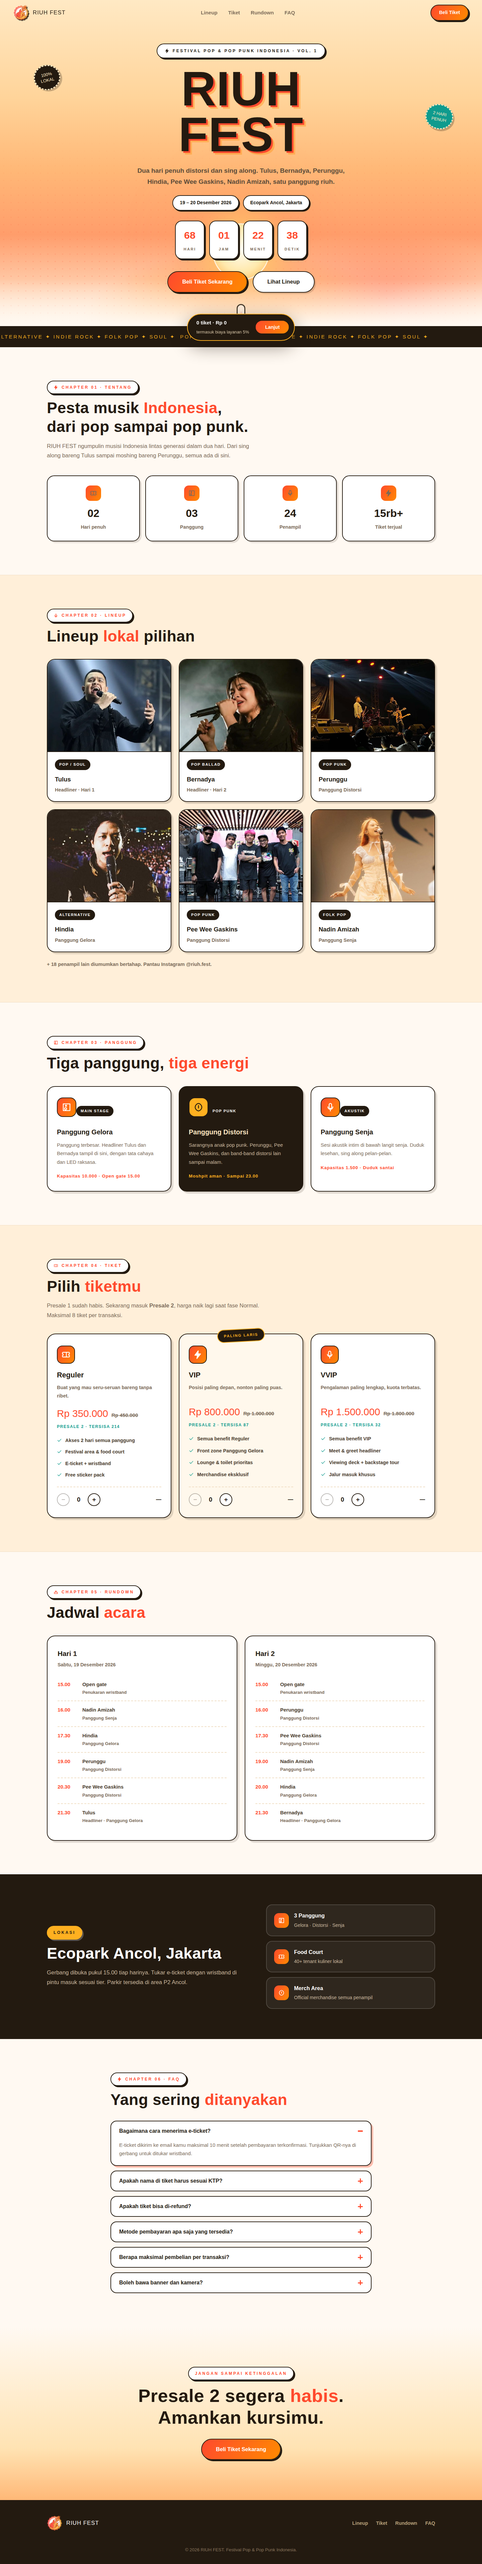
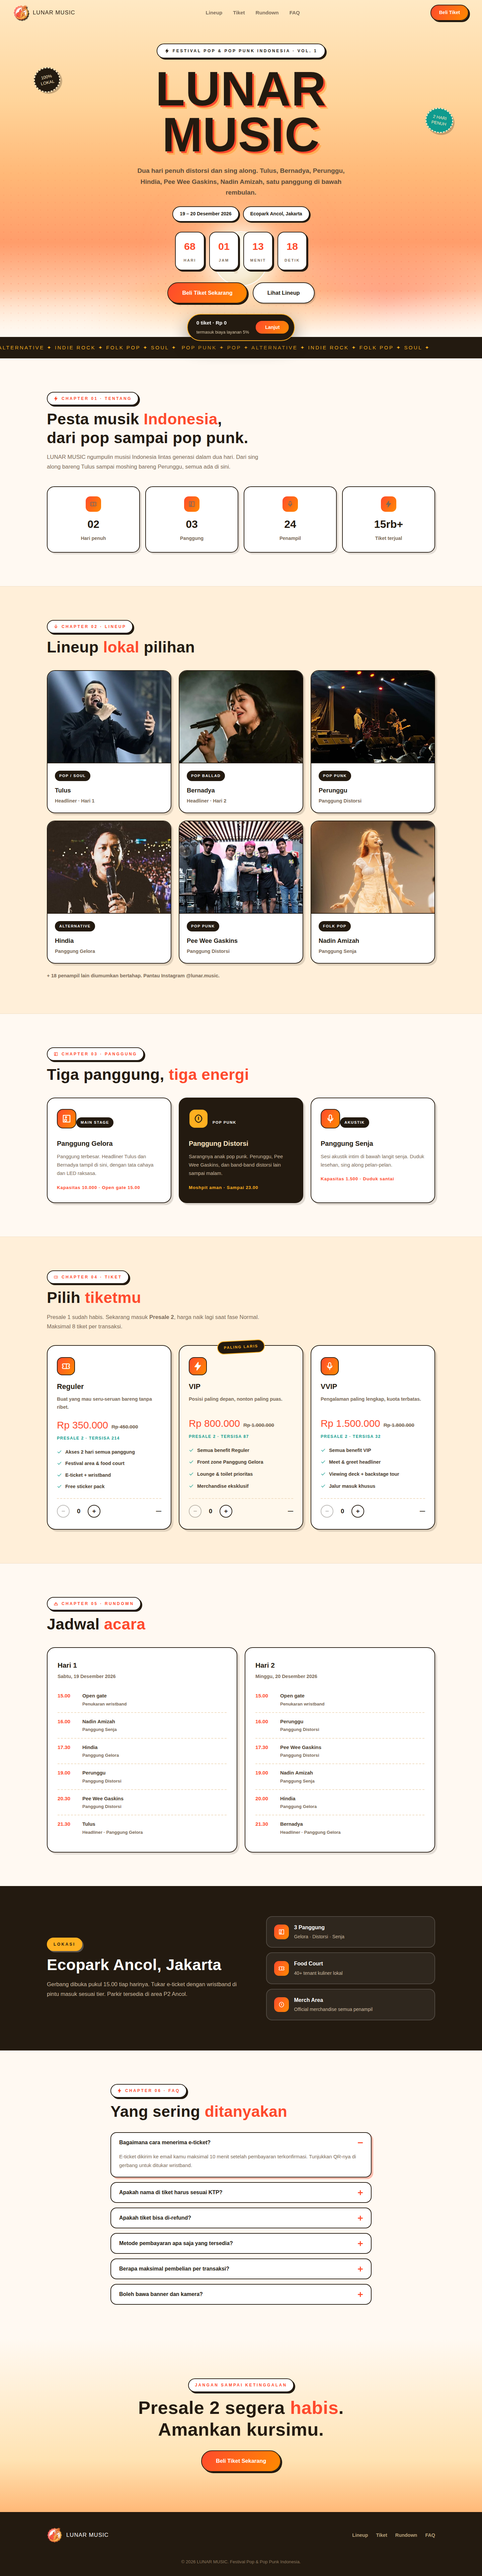
feat: rebrand Lunar Music (ganti RIUH FEST), hero bulan

diff --git a/src/App.jsx b/src/App.jsx
@@ -190,7 +190,7 @@ export default function App() {
       const chars = 'ABCDEFGHJKLMNPQRSTUVWXYZ23456789'
       let c = ''
       for (let i = 0; i < 6; i++) c += chars[Math.floor(Math.random() * chars.length)]
-      setCode('RIUH-' + c)
+      setCode('LUNAR-' + c)
       setModal('done')
     }, 1800)
   }
@@ -204,8 +204,8 @@ export default function App() {
       {/* ---------- nav ---------- */}
       <header className="nav">
         <a href="#top" className="brand">
-          <img src="/logo.png" alt="Logo RIUH FEST" className="brand-logo" />
-          <span className="brand-name">RIUH FEST</span>
+          <img src="/logo.png" alt="Logo LUNAR MUSIC" className="brand-logo" />
+          <span className="brand-name">LUNAR MUSIC</span>
         </a>
         <nav className={`nav-links ${burger ? 'open' : ''}`}>
           <a href="#lineup" onClick={() => setBurger(false)}>Lineup</a>
@@ -225,13 +225,13 @@ export default function App() {
       <section className="hero" id="top">
         <div className="sky" aria-hidden="true" />
         <div className="halftone" aria-hidden="true" />
-        <div className="sun" aria-hidden="true" />
+        <div className="moon" aria-hidden="true" />
         <div className="sticker s1 rv" aria-hidden="true">100%<br />LOKAL</div>
         <div className="sticker s2 rv" aria-hidden="true">2 HARI<br />PENUH</div>
         <div className="hero-inner">
           <p className="eyebrow rv">{I.bolt(14)} Festival Pop & Pop Punk Indonesia · Vol. 1</p>
-          <h1 className="hero-title rv">RIUH<br />FEST</h1>
-          <p className="hero-sub rv">Dua hari penuh distorsi dan sing along. Tulus, Bernadya, Perunggu, Hindia, Pee Wee Gaskins, Nadin Amizah, satu panggung riuh.</p>
+          <h1 className="hero-title rv">LUNAR<br />MUSIC</h1>
+          <p className="hero-sub rv">Dua hari penuh distorsi dan sing along. Tulus, Bernadya, Perunggu, Hindia, Pee Wee Gaskins, Nadin Amizah, satu panggung di bawah rembulan.</p>
           <div className="hero-pills rv">
             <span>19 – 20 Desember 2026</span>
             <span>Ecopark Ancol, Jakarta</span>
@@ -263,7 +263,7 @@ export default function App() {
         <div className="wrap">
           <p className="chapter rv">{I.bolt(14)} Chapter 01 · Tentang</p>
           <h2 className="h2 rv">Pesta musik <span className="ac">Indonesia</span>,<br />dari pop sampai pop punk.</h2>
-          <p className="lead rv">RIUH FEST ngumpulin musisi Indonesia lintas generasi dalam dua hari. Dari sing along bareng Tulus sampai moshing bareng Perunggu, semua ada di sini.</p>
+          <p className="lead rv">LUNAR MUSIC ngumpulin musisi Indonesia lintas generasi dalam dua hari. Dari sing along bareng Tulus sampai moshing bareng Perunggu, semua ada di sini.</p>
           <div className="stats">
             {[['02', 'Hari penuh', 'ticket'], ['03', 'Panggung', 'speaker'], ['24', 'Penampil', 'mic'], ['15rb+', 'Tiket terjual', 'bolt']].map(([n, l, ic]) => (
               <div className="stat rv" key={l}><span className="stat-ic">{I[ic](22)}</span><b>{n}</b><span>{l}</span></div>
@@ -289,7 +289,7 @@ export default function App() {
               </article>
             ))}
           </div>
-          <p className="note rv">+ 18 penampil lain diumumkan bertahap. Pantau Instagram @riuh.fest.</p>
+          <p className="note rv">+ 18 penampil lain diumumkan bertahap. Pantau Instagram @lunar.music.</p>
         </div>
       </section>
 
@@ -413,14 +413,14 @@ export default function App() {
       <footer className="footer">
         <div className="wrap foot-in">
           <a href="#top" className="brand">
-            <img src="/logo.png" alt="Logo RIUH FEST" className="brand-logo" />
-            <span className="brand-name">RIUH FEST</span>
+            <img src="/logo.png" alt="Logo LUNAR MUSIC" className="brand-logo" />
+            <span className="brand-name">LUNAR MUSIC</span>
           </a>
           <nav className="foot-links">
             <a href="#lineup">Lineup</a><a href="#tiket">Tiket</a>
             <a href="#rundown">Rundown</a><a href="#faq">FAQ</a>
           </nav>
-          <p>© 2026 RIUH FEST. Festival Pop & Pop Punk Indonesia.</p>
+          <p>© 2026 LUNAR MUSIC. Festival Pop & Pop Punk Indonesia.</p>
         </div>
       </footer>
 
@@ -515,7 +515,7 @@ export default function App() {
                 <div className="ok">{I.check(38)}</div>
                 <h3>Pembayaran berhasil!</h3>
                 <div className="code">{code}</div>
-                <p>E-ticket ({totalQty} tiket) dikirim ke <b>{buyer.email}</b>. Tunjukkan QR e-ticket di gerbang untuk ditukar wristband. Sampai jumpa di keriuhan!</p>
+                <p>E-ticket ({totalQty} tiket) dikirim ke <b>{buyer.email}</b>. Tunjukkan QR e-ticket di gerbang untuk ditukar wristband. Sampai jumpa di bawah rembulan!</p>
                 <button className="btn btn-fire btn-block" onClick={closeModal}>Selesai</button>
               </div>
             )}

diff --git a/src/index.css b/src/index.css
@@ -107,13 +107,19 @@ a { color: inherit; }
   mask-image: linear-gradient(180deg, transparent 40%, #000 90%);
   -webkit-mask-image: linear-gradient(180deg, transparent 40%, #000 90%);
 }
-.sun {
-  position: absolute; bottom: 14%; left: 50%; transform: translateX(-50%);
-  width: 170px; height: 170px; border-radius: 50%;
-  background: radial-gradient(circle at 50% 45%, #fffdf4, #ffe9ad 55%, #ffc46b 85%);
-  box-shadow: 0 0 70px 34px rgba(255, 200, 110, .75), 0 0 170px 90px rgba(255, 150, 80, .4);
-  border: 3px solid rgba(255,255,255,.7);
+.moon {
+  position: absolute; bottom: 15%; left: 50%; transform: translateX(-50%);
+  width: 165px; height: 165px; border-radius: 50%;
+  background: radial-gradient(circle at 36% 34%, #fffef9, #f7ecd4 58%, #e6d3a8 88%);
+  box-shadow: 0 0 60px 26px rgba(255, 252, 238, .75), 0 0 150px 70px rgba(255, 240, 200, .35);
+  border: 3px solid rgba(255,255,255,.85);
 }
+.moon::before, .moon::after {
+  content: ''; position: absolute; border-radius: 50%;
+  background: rgba(190, 165, 120, .28);
+}
+.moon::before { width: 34px; height: 34px; top: 30px; left: 42px; }
+.moon::after { width: 20px; height: 20px; top: 78px; left: 88px; box-shadow: -34px 30px 0 -4px rgba(190,165,120,.22); }
 .sticker {
   position: absolute; z-index: 2;
   font-family: var(--fd); font-size: .8rem; line-height: 1.3; text-align: center;
@@ -445,7 +451,7 @@ a { color: inherit; }
   .burger { display: flex; }
   .nav-cta .btn { display: none; }
   .lineup-grid { grid-template-columns: 1fr; }
-  .sun { width: 120px; height: 120px; }
+  .moon { width: 115px; height: 115px; }
   .cd-box { min-width: 70px; padding: 12px 6px; }
   .cd-box b { font-size: 1.5rem; }
   .section { padding: 72px 0; }

diff --git a/index.html b/index.html
@@ -6,8 +6,8 @@
     <link rel="icon" type="image/png" sizes="32x32" href="/favicon-32x32.png" />
     <link rel="apple-touch-icon" href="/apple-touch-icon.png" />
     <meta name="viewport" content="width=device-width, initial-scale=1.0" />
-    <meta name="description" content="RIUH FEST — Festival pop & pop punk Indonesia. Tulus, Bernadya, Perunggu, Hindia, Pee Wee Gaskins, Nadin Amizah. 19-20 Desember 2026, Ecopark Ancol Jakarta." />
-    <title>RIUH FEST — Festival Pop & Pop Punk Indonesia</title>
+    <meta name="description" content="Lunar Music — Festival pop & pop punk Indonesia. Tulus, Bernadya, Perunggu, Hindia, Pee Wee Gaskins, Nadin Amizah. 19-20 Desember 2026, Ecopark Ancol Jakarta." />
+    <title>Lunar Music — Festival Pop & Pop Punk Indonesia</title>
     <link rel="preconnect" href="https://fonts.googleapis.com" />
     <link rel="preconnect" href="https://fonts.gstatic.com" crossorigin />
     <link href="https://fonts.googleapis.com/css2?family=Archivo+Black&family=Plus+Jakarta+Sans:wght@400;500;600;700;800&display=swap" rel="stylesheet" />

diff --git a/README.md b/README.md
@@ -1,4 +1,4 @@
-# RE:STAGE — Another World Music Festival
+# Lunar Music — Festival Pop & Pop Punk Indonesia
 
 Landing page festival musik bertema isekai/fantasy, terinspirasi key visual Re:ZERO Season 4 (langit senja ungu-magenta-amber).
 
